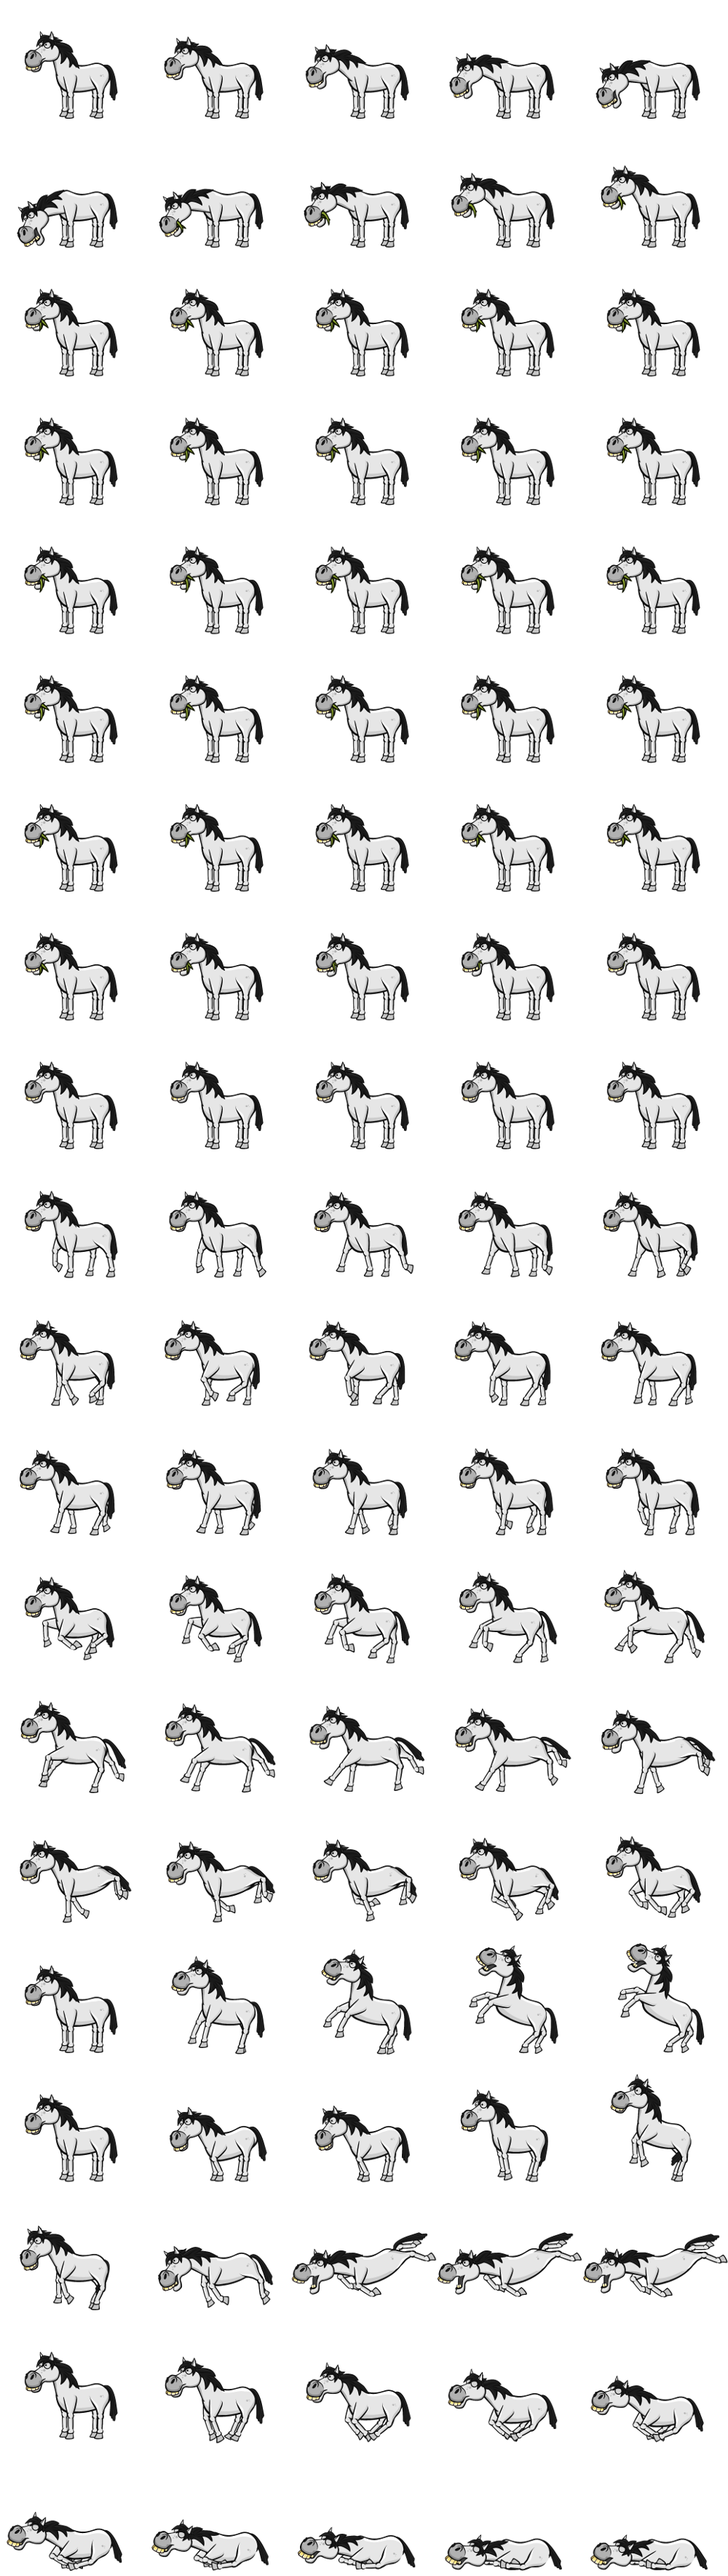
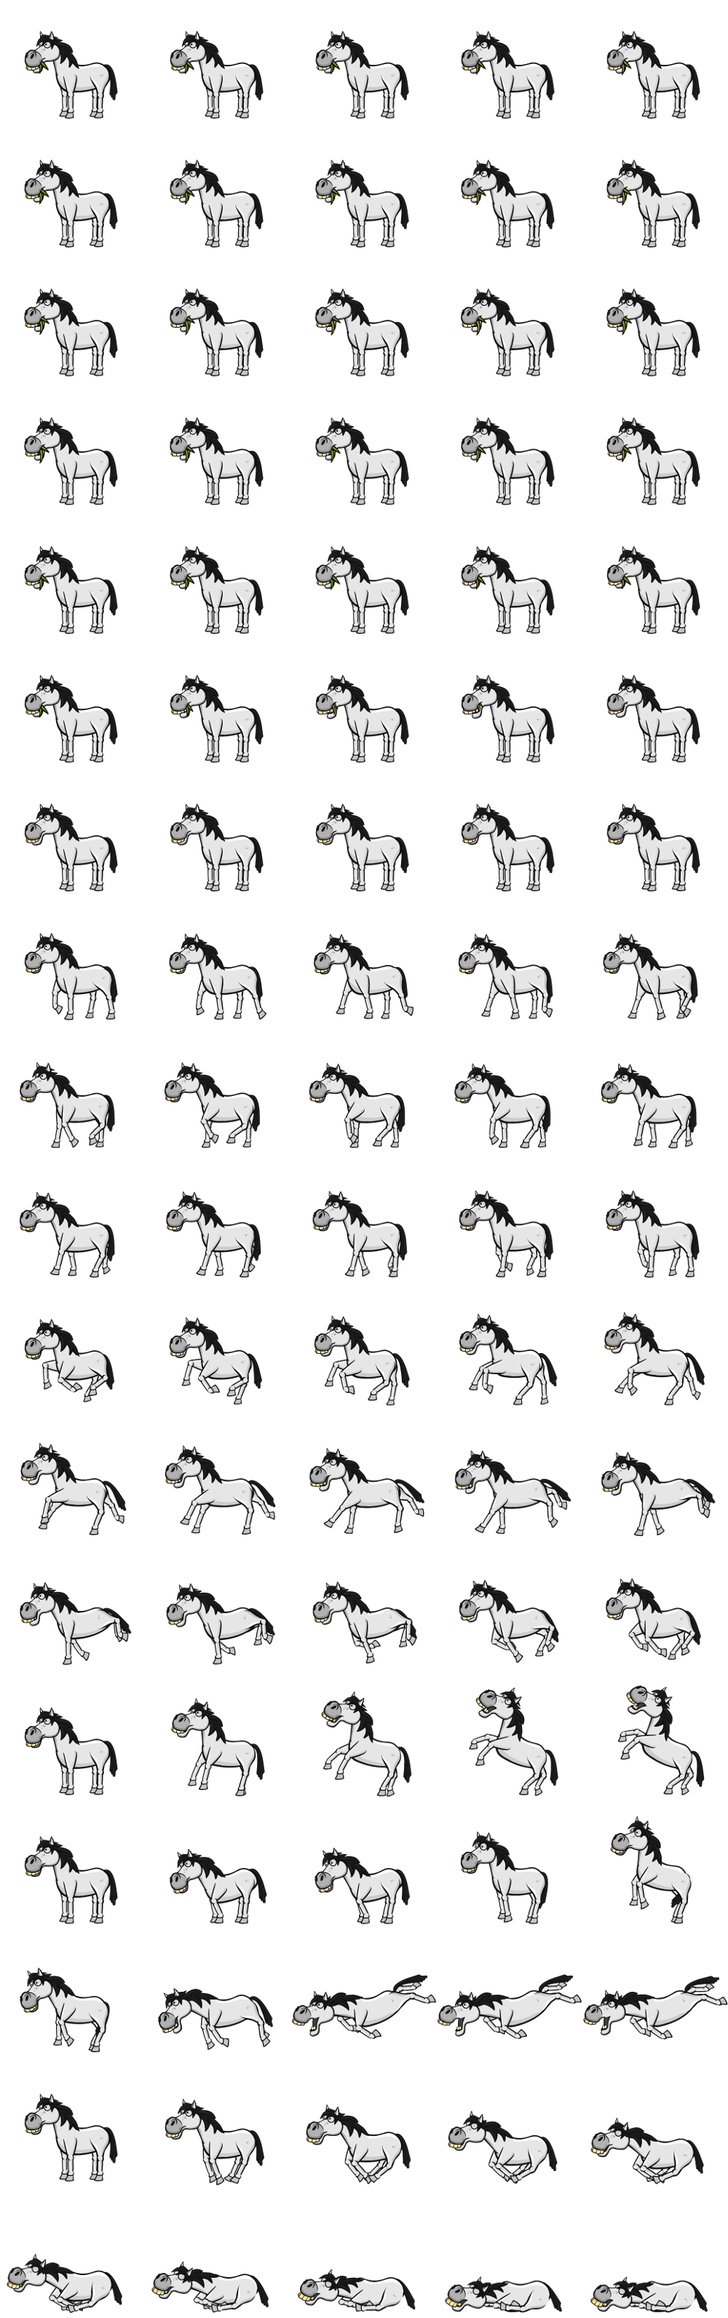
Unnecessary frames were removed from unicorn sprite

Changed region(s): [[0.403, 0.0, 0.992, 1.0], [0.217, 0.0, 0.372, 1.0], [0.0, 0.0, 0.186, 1.0]]

diff --git a/source/levels/0.js b/source/levels/0.js
@@ -31,7 +31,7 @@ export default {
     }],
     entities: [{
         name: 'Trap',
-        position: [250, 300]
+        position: [250, 330]
     }] || [{
         name: 'Spider',
         position: [350, 50],

diff --git a/source/entities/TrapEntity.js b/source/entities/TrapEntity.js
@@ -27,7 +27,7 @@ export default class TrapEntity extends Entity {
     }
 
     _getSize () {
-        return new Vector2(20, 30);
+        return new Vector2(20, 20);
     }
 
     _createTraits () {
